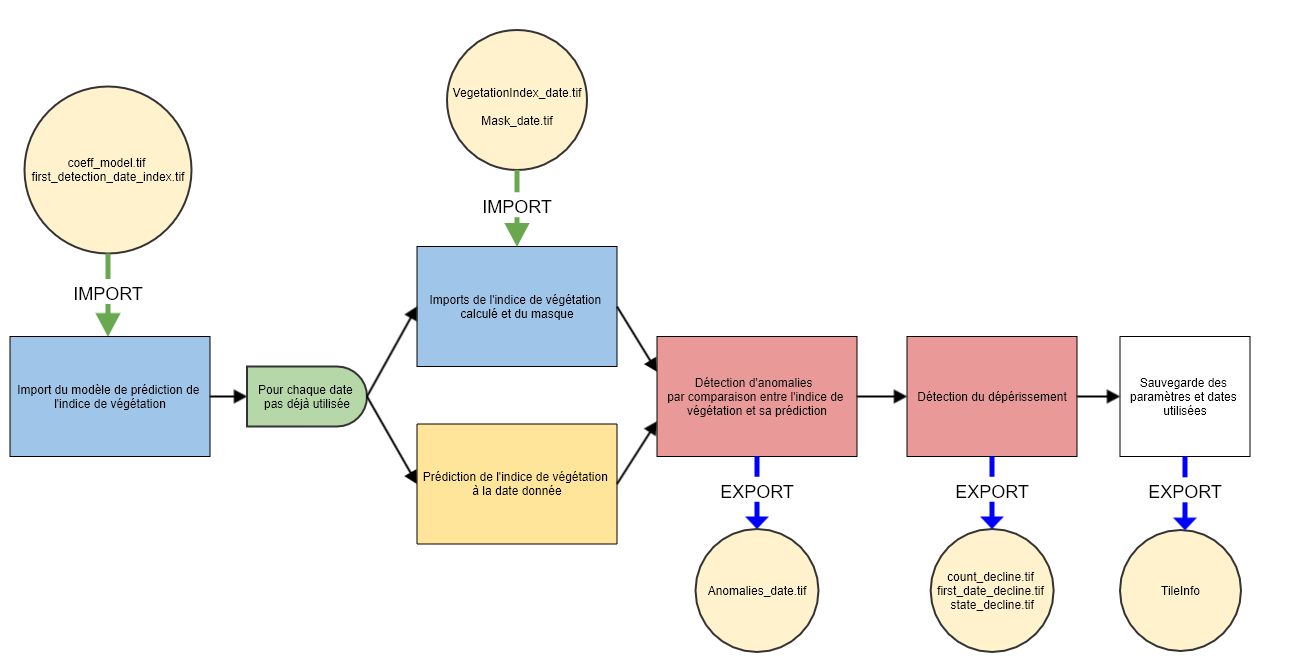
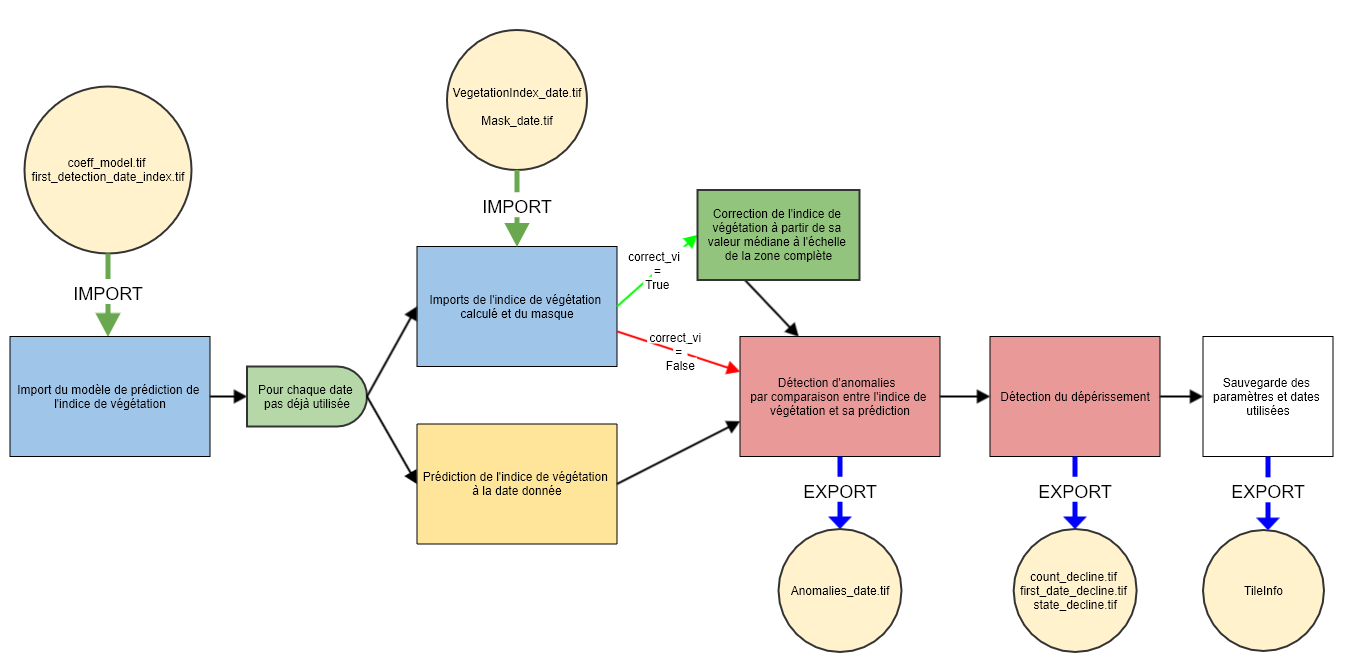
Adding documentation for vegetation index correction, updating user guides

diff --git a/fordead/ModelVegetationIndex.py b/fordead/ModelVegetationIndex.py
@@ -217,6 +217,31 @@ def prediction_vegetation_index(coeff_model,date_list):
     return predicted_vi
 
 def model_vi_correction(stack_vi, stack_masks, dict_paths):
+    """
+    Corrects stacked vegetation index using large scale vegetation index median value.
+    A periodic model is fitted on the median vegetation index of unmasked pixels within the forest mask. The difference between the prediction of this model and these large scale median values is used as a correction term to correct the vegetation index.
+    This is meant to take into account changes affecting all pixels equally which are not linked with a decline.
+
+    Parameters
+    ----------
+    stack_vi : array (Time,x,y)
+        array containing uncorrected vegetation index data
+    stack_masks : array (Time,x,y)
+        Array (boolean) containing mask data.
+    dict_paths : dict
+        Dictionnary containing vegetation index path for each date, and "ForestMask" key linking to the path of the pixels of interest.
+
+    Returns
+    -------
+    stack_vi : array (Time,x,y)
+        Array containing corrected vegetation index data
+    large_scale_model : xarray (coeff: 5)
+        Array containing the five coefficients of the large scale median vegetation index model
+    correction_vi : xarray (Time)
+        Array containing the correction terms for each date which were added to the vegetation index for its correction
+
+    """
+    
     forest_mask = import_forest_mask(dict_paths["ForestMask"])
     median_vi=[]
     for date in stack_vi.Time.data:
@@ -234,6 +259,33 @@ def model_vi_correction(stack_vi, stack_masks, dict_paths):
     return stack_vi, large_scale_model, correction_vi
 
 def correct_vi_date(masked_vi, forest_mask, large_scale_model, date, correction_vi):
+    """
+    Corrects single date vegetation index using large scale vegetation index median value previously computed.
+    The difference between the prediction of the model and the large scale median value is used as a correction term for the vegetation index.
+    This is meant to take into account changes affecting all pixels equally which are not linked with a decline.
+
+    Parameters
+    ----------
+    masked_vi : xarray DataSet
+        DataSet containing two DataArrays, "vegetation_index" containing uncorrected vegetation index values, and "mask" containing mask values.
+    xarray DataArray
+        Binary array containing True if pixels are inside the region of interest.
+    large_scale_model : xarray (coeff: 5)
+        Array containing the five coefficients of the large scale median vegetation index model
+    date : str
+        Date in the format "YYYY-MM-DD"
+    correction_vi : xarray (Time)
+        Array containing the correction terms for each date which were added to the vegetation index for its correction
+
+    Returns
+    -------
+    masked_vi : xarray DataSet
+        DataSet containing two DataArrays, "vegetation_index" containing corrected vegetation index values, and "mask" containing mask values.
+    correction_vi : xarray (Time)
+        Array containing the correction terms for each date, with added correction term of the date used in the function.
+
+    """
+    
     if date not in correction_vi.Time:
         median_vi = masked_vi["vegetation_index"].where(forest_mask & ~masked_vi["mask"]).median(dim=["x","y"])
         if np.isnan(median_vi):

diff --git a/fordead/steps/step3_decline_detection_validation.py b/fordead/steps/step3_decline_detection_validation.py
@@ -70,14 +70,16 @@ def get_rasterized_validation_data(path_shape, raster_metadata, ground_obs_erosi
 
 
 @click.command(name='decline_detection_validation')
-@click.option("-d", "--data_directory",  type=str, help="Dossier avec les données")
+@click.option("-d", "--data_directory",  type=str, help="Path of the output directory")
 @click.option("-s", "--threshold_anomaly",  type=float, default=0.16,
-                    help="Seuil minimum pour détection d'anomalies", show_default=True)
+                    help="Minimum threshold for anomaly detection", show_default=True)
 @click.option("--vi",  type=str, default=None,
                     help="Chosen vegetation index, only useful if step1 was skipped", show_default=True)
 @click.option("--path_dict_vi",  type=str, default=None,
                     help="Path of text file to add vegetation index formula, only useful if step1 was skipped", show_default=True)
-@click.option("--ground_obs_path",  type=str, help = "Dossier contenant les shapefiles de données de validation")
+@click.option("--name_column",  type=str, default="Id",
+                    help="Name of the column containing the ID of the ground observation polygon", show_default=True)
+@click.option("--ground_obs_path",  type=str, help = "Path to the shapefile containing ground observation polygons")
 @click.option("--ground_obs_erosion",  type=str, help = "If True, keeps only polygons with 'IndSur'==1 and apply 10m erosion. Else, keeps all polygons and apply 10m dilation")
 def cli_decline_detection_validation(
     data_directory,
@@ -89,7 +91,7 @@ def cli_decline_detection_validation(
     path_dict_vi = None,
     ):
     """
-    Produce the anomaly detection from the model
+    Produce the anomaly detection from the model, along with exporting as two .csv files data relating to pixels within the ground_obs_path shapefile.
     \f
     Parameters
     ----------
@@ -118,17 +120,24 @@ def decline_detection_validation(
     path_dict_vi = None
     ):
     """
-    Produce the anomaly detection from the model
+    Produce the anomaly detection from the model, along with exporting as two .csv files data relating to pixels within the ground_obs_path shapefile.
     \f
     Parameters
     ----------
-    data_directory
-    ground_obs_path
-    ground_obs_erosion
-    name_column
-    threshold_anomaly
-    vi
-    path_dict_vi
+    data_directory: str
+        Path of the output directory
+    ground_obs_path: str
+        Path to the shapefile containing ground observation polygons
+    ground_obs_erosion: bool
+        If True, keeps only polygons with 'IndSur'==1 and apply 10m erosion. Else, keeps all polygons and apply 10m dilation
+    name_column: str
+        Name of the column containing the ID of the ground observation polygon
+    threshold_anomaly: float
+        Minimum threshold for anomaly detection
+    vi: str
+        Chosen vegetation index, only useful if step1 was skipped
+    path_dict_vi: str
+        Path of text file to add vegetation index formula, only useful if step1 was 
 
     Returns
     -------

diff --git a/examples/process_tile.py b/examples/process_tile.py
@@ -28,7 +28,7 @@ def parse_command_line():
     parser = argparse.ArgumentParser()
 
     parser.add_argument("-d", "--main_directory", dest = "main_directory",type = str, help = "Dossier contenant les dossiers des tuiles")
-    parser.add_argument('-t', '--tuiles', nargs='+',default = ["T31UGP"], help="Liste des tuiles à analyser ex : -t T31UGP T31UGQ")
+    parser.add_argument('-t', '--tuiles', nargs='+',default = ["ZoneEtude"], help="Liste des tuiles à analyser ex : -t T31UGP T31UGQ")
     parser.add_argument("--extent_shape_path", dest = "extent_shape_path",type = str,default = None, help = "Path of shapefile used as extent of detection")
     
     parser.add_argument("-i", "--sentinel_directory", dest = "sentinel_directory",type = str, help = "Path of the directory with a directory containing Sentinel data for each tile ")
@@ -78,7 +78,7 @@ def process_tiles(main_directory, sentinel_directory, tuiles, forest_mask_source
         
     # sentinel_directory = "D:/Documents/Deperissement/FORMATION_SANTE_FORETS/A_DATA/RASTER/SERIES_SENTINEL"
     # main_directory = "D:/Documents/Deperissement/Output"    
-    # validation =True
+    # correct_vi =True
     sentinel_directory = Path(sentinel_directory)
     main_directory = Path(main_directory)
     logpath = main_directory / (datetime.datetime.now().strftime("%Y-%m-%d-%HH%Mm%Ss") + ".txt")
@@ -119,7 +119,7 @@ def process_tiles(main_directory, sentinel_directory, tuiles, forest_mask_source
         train_model(data_directory=main_directory / Path(extent_shape_path).stem if extent_shape_path is not None else main_directory / tuile,
                     max_last_date_training = max_last_date_training,
                     nb_min_date = nb_min_date, correct_vi = correct_vi)
-        file = open(logpath, "a") 
+        file = open(logpath, "a")
         file.write("train_model : " + str(time.time() - start_time) + "\n") ; start_time = time.time()
         file.close()
 # =====================================================================================================================    

diff --git a/fordead/steps/step4_compute_forest_mask.py b/fordead/steps/step4_compute_forest_mask.py
@@ -102,7 +102,13 @@ def compute_forest_mask(data_directory,
     tile = TileInfo(data_directory)
     tile = tile.import_info()
     tile.add_parameters({"forest_mask_source" : forest_mask_source, "list_forest_type" : list_forest_type, "list_code_oso" : list_code_oso})
-    if tile.parameters["Overwrite"] : tile.delete_files("ForestMask" ,"periodic_results_decline","result_files","timelapse")
+    if tile.parameters["Overwrite"] : 
+        tile.delete_files("ForestMask" ,"periodic_results_decline","result_files","timelapse")
+        #Si correction de l'indice de végétation, le calcul du masque forêt se fait en step2 et d'autres résultats doivent être supprimés
+        if hasattr(tile, "correct_vi") and tile.parameters["correct_vi"] : 
+            tile.delete_dirs("coeff_model","AnomaliesDir","state_decline" ,"periodic_results_decline","result_files","timelapse","series", "validation") #Deleting previous training and detection results if they exist
+            tile.delete_files("valid_area_mask")
+            if hasattr(tile, "last_computed_anomaly"): delattr(tile, "last_computed_anomaly")
 
     if path_example_raster == None : path_example_raster = tile.paths["VegetationIndex"][tile.dates[0]]
     tile.add_path("ForestMask", tile.data_directory / "ForestMask" / "Forest_Mask.tif")

diff --git a/fordead/_version.py b/fordead/_version.py
@@ -1,1 +1,1 @@
-__version__="0.9.0"
+__version__="1.2.0"

diff --git a/docs/user_guides/02_train_model.md b/docs/user_guides/02_train_model.md
@@ -9,7 +9,7 @@ Les paramètres en entrée sont :
 - **max_last_date_training** : Date au format AAAA-MM-JJ jusqu'à laquelle les dates SENTINEL peuvent être utilisées pour l'apprentissage afin d'atteindre le nombre de nb_min_date dates valides
 - **path_vi** : Chemin du dossier contenant un raster pour chaque date où l'indice de végétation est calculé pour chaque pixel. Inutile de le renseigner si les informations proviennent de l'étape 1, auquel cas le chemin est contenu dans le fichier TileInfo.
 - **path_masks** : Chemin du dossier contenant un raster binaire pour chaque date où les pixels masqués valent 1, et les pixels valides 0. Inutile de le renseigner si les informations proviennent de l'étape 1, auquel cas le chemin est contenu dans le fichier TileInfo.
-
+- **correct_vi** : Si activé, l'indice de végétation est corrigé à partir de l'indice de végétation médian des pixels d'intérêts non masqués à l'échelle de la zone complète. Si activé, [l'étape de définition de la zone d'intérêt](https://fordead.gitlab.io/fordead_package/docs/user_guides/04_compute_forest_mask/) doit donc être réalisée avant cette étape. Cela permet de corriger des effets s'appliquant à l'ensemble du peuplement, non nécessairement liés à un dépérissement.
 Les coefficients du modèle sont calculés pour chaque pixel. Pour chaque pixel, uniquement les dates non masquées sont utilisées. Si il y a nb_min_date dates valides à la date max_last_date_training, l'apprentissage s'arrête à cette date. Si le nombre de date de dates valides atteint nb_min_date entre à une date située entre min_last_date_training et max_last_date_training, l'apprentissage s'arrête à cette date. Si le nombre de date de dates valides n'atteint pas nb_min_date à la date max_last_date_training, le pixel est sorti de l'étude et ne sera pas associé à un modèle.
 Cette méthode permet, dans le cas d'une crise sanitaire relativement ancienne comme le scolyte, de commencer la détection dès 2018 si l'on dispose de suffisamment de dates valides au début de l'année, tout permettant l'étude de pixels dans des situations de détection plus délicates simplement en réalisant l'apprentissage sur une période plus longue pour récupérer d'autres dates valides. Il parait difficile de terminer l'apprentissage avant 2018, car le modèle périodique étant annuel, l'utilisation d'au moins deux ans de données SENTINEL-2 parait obligatoire.
 
@@ -47,6 +47,14 @@ Avant tout, si la chaîne de traitement a déjà été utilisée sur la zone, le
 
 ### Import de l'ensemble des données d'indices de végétation et masques jusqu'à **min_last_date_training**
 > **_Fonctions utilisées :_** [import_stackedmaskedVI()](https://fordead.gitlab.io/fordead_package/reference/fordead/ImportData/#import_stackedmaskedvi)
+
+### (OPTIONNEL - si **correct_vi** vaut True) Correction de l'indice de végétation à partir de l'indice de végétation médian des pixels d'intérêts non masqués à l'échelle de la zone complète
+- Masquage des pixels n'appartenant pas à la zone d'intérêt, ou masqués
+- Calcul de la médiane de l'indice de végétation de l'ensemble de la zone pour chaque date jusque **max_last_date_training**
+- Ajustement d'un modèle harmonique sur ces médianes, ce modèle doit donc rendre compte du comportement normal de l'indice de végétation sur l'ensemble des peuplements d'intérêt de la zone.
+- Calcul d'un terme de correction pour chaque date, par différence entre la prédiction du modèle à la date donnée et la médiane calculée correspondante
+- Application des termes de corrections de chaque date en l'ajoutant à la valeur de l'indice de végétation de l'ensemble des pixels de la date.
+> **_Fonctions utilisées :_** [model_vi_correction()](https://fordead.gitlab.io/fordead_package/reference/fordead/ModelVegetationIndex/#model_vi_correction)
 
 ### Détermination des dates utilisées pour l'apprentissage
 La date de début de détection peut être différent entre chaque pixels. Pour chaque pixel, l'apprentissage du modèle doit se faire sur au moins **nb_min_date** dates, et au moins sur l'ensemble des dates antérieures à **min_last_date_training**. Si il n'y a pas au moins **nb_min_date** à la date **max_last_date_training**, le pixel est abandonné. Cela permet de commencer la détection au plus tôt si cela est possible, tout en conservant un maximum de pixels en permettant un début de détection plus tardif sur les zones avec moins de dates valides.

diff --git a/docs/user_guides/03_decline_detection.md b/docs/user_guides/03_decline_detection.md
@@ -47,6 +47,13 @@ Les coefficients du modèle de prédiction de l'indice de végétation sont impo
 #### Imports de l'indice de végétation calculé et du masque
 > **_Fonctions utilisées :_** [import_masked_vi()](https://fordead.gitlab.io/fordead_package/reference/fordead/ImportData/#import_masked_vi)
 
+### (OPTIONNEL - si **correct_vi** vaut True lors de [l'étape précédente de calcul du modèle](https://fordead.gitlab.io/fordead_package/docs/user_guides/03_train_model/) Correction de l'indice de végétation à partir de l'indice de végétation médian des pixels d'intérêts non masqués à l'échelle de la zone complète
+- Masquage des pixels n'appartenant pas à la zone d'intérêt, ou masqués
+- Calcul de la médiane de l'indice de végétation de l'ensemble de la zone
+- Calcul d'un terme de correction, par différence entre la médiane calculée et la prédiction du modèle calculé lors de l'étape précédente à partir de la médiane calculée pour l'ensemble des dates
+- Application du terme de correction en l'ajoutant à la valeur de l'indice de végétation de l'ensemble des pixels
+> **_Fonctions utilisées :_** [correct_vi_date()](https://fordead.gitlab.io/fordead_package/reference/fordead/ModelVegetationIndex/#correct_vi_date)
+
 #### Prédiction de l'indice de végétation à la date donnée.
 L'indice de végétation est prédit à partir des coefficients du modèle.
 > **_Fonctions utilisées :_** [prediction_vegetation_index()](https://fordead.gitlab.io/fordead_package/reference/fordead/decline_detection/#prediction_vegetation_index)

diff --git a/README.md b/README.md
@@ -25,4 +25,6 @@ La détection du déperissement se fait en cinq étapes.
 - [La création du masque forêt, qui définit les zones d'intérêt](https://fordead.gitlab.io/fordead_package/docs/user_guides/04_compute_forest_mask/)
 - [L'export de sorties permettant de visualiser les résultats au pas de temps souhaité](https://fordead.gitlab.io/fordead_package/docs/user_guides/05_export_results/)
 
+Il est possible de corriger l'indice de végétation à l'aide d'un facteur de correction calculé à partir de la médiane de l'indice de végétation des peuplements d'intérêt à large échelle, auquel cas l'étape de création du masque doit être réalisée avant l'étape d'apprentissage du modèle.
+
 L'ensemble de la documentation ainsi que les guides utilisateurs de ces étapes sont disponibles sur le [site](https://fordead.gitlab.io/fordead_package/).
